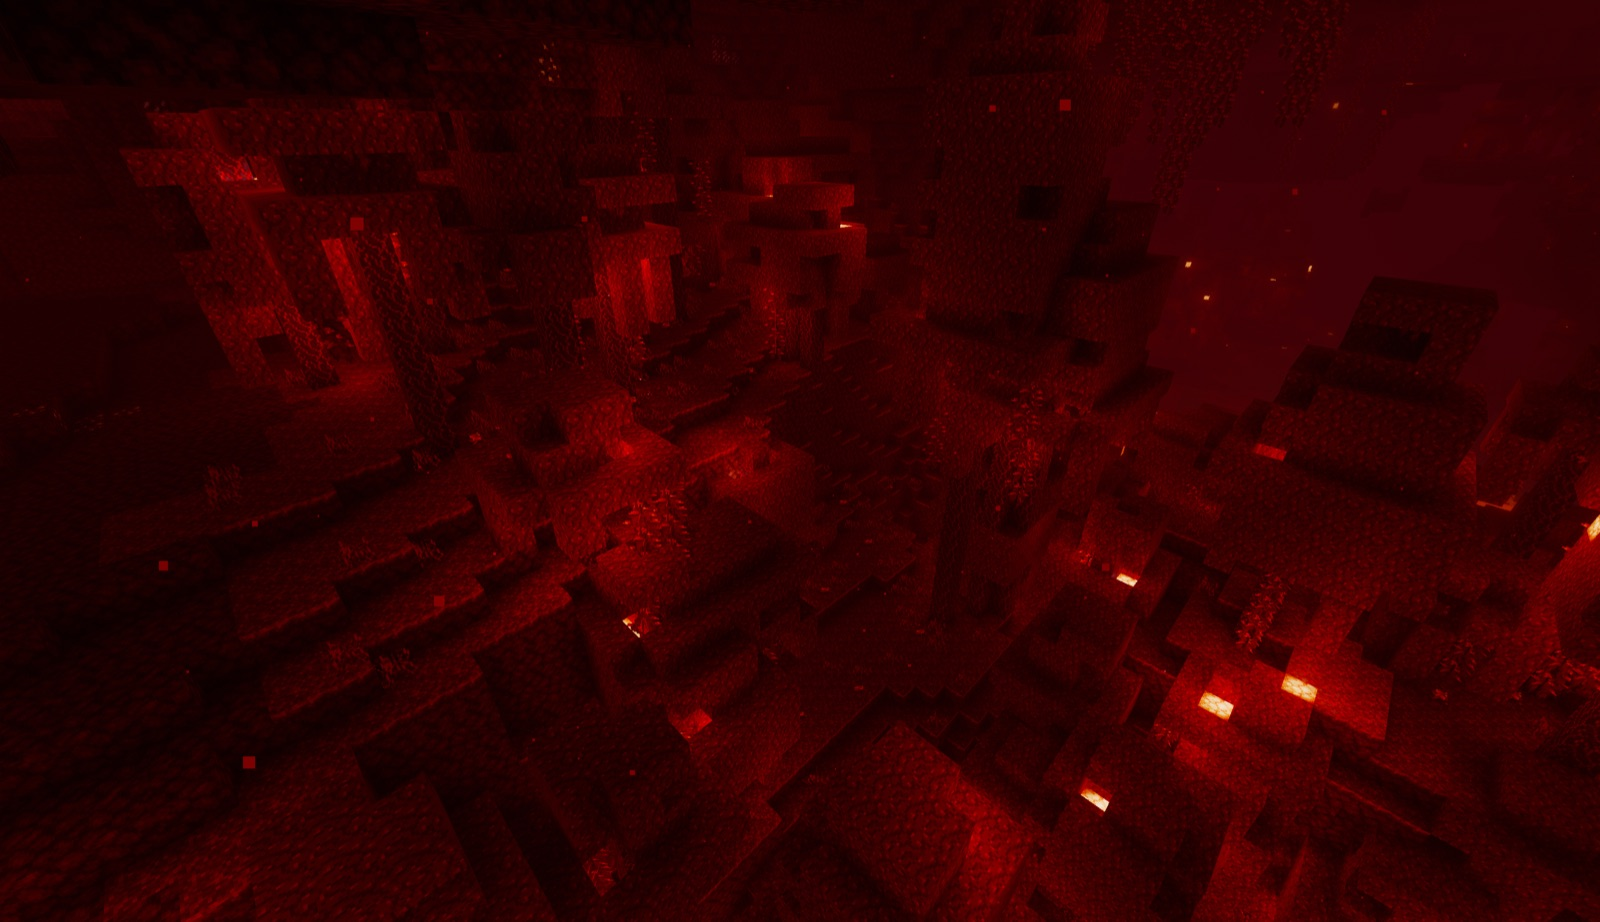
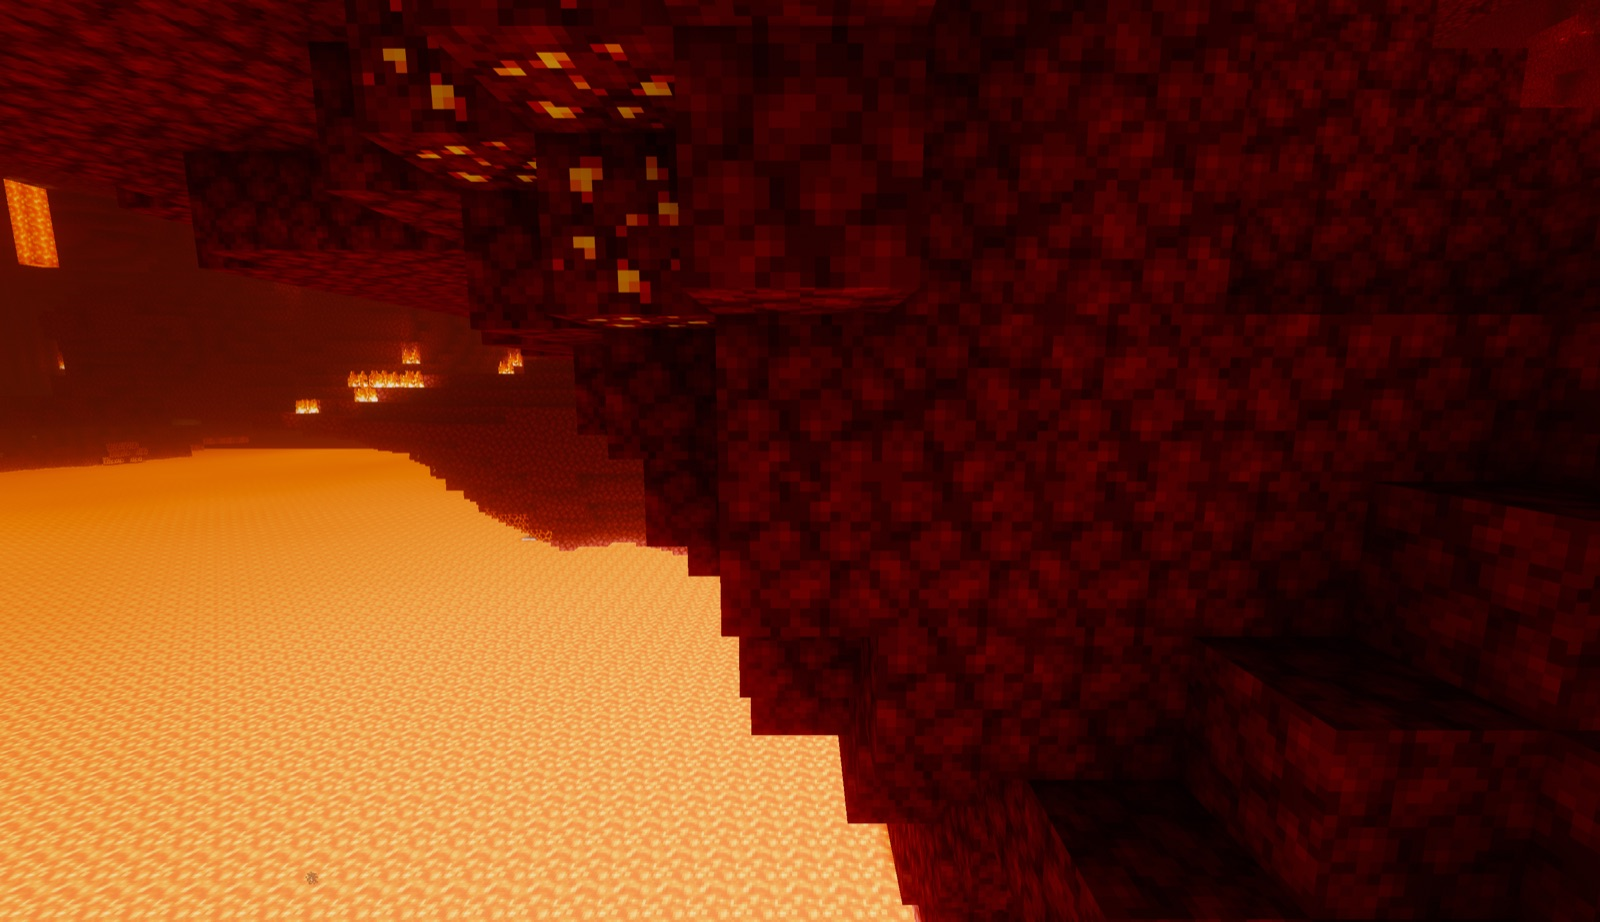
Showcase: the open-air lava sea Nether view

diff --git a/tools/qa/probe/src/main/java/celestiaqa/Shots.java b/tools/qa/probe/src/main/java/celestiaqa/Shots.java
@@ -50,7 +50,7 @@ final class Shots {
         new Scene("vista-night", 18000, "clear", "tp @a 40.5 210 40.5 135 -10"),
         new Scene("vista-rain", 6000, "rain", "tp @a 40.5 210 40.5 135 12"),
         new Scene("village-rain", 6000, "rain", "tp @a -330.5 65 256.5 90 4"), // (last Overworld: rain and wetness take long to clear)
-        new Scene("nether", 6000, "clear", Level.NETHER, "execute in minecraft:the_nether run tp @a 0.5 100 0.5 135 30"), // (open air above the nether wastes)
+        new Scene("nether", 6000, "clear", Level.NETHER, "execute in minecraft:the_nether run tp @a -45.5 42 20.5 90 8"), // (open air over the lava sea, checked with execute if block)
         new Scene("end", 6000, "clear", Level.END, "execute in minecraft:the_end run tp @a 0.5 76 -48.5 0 8"));
 
     private Shots() {}

diff --git a/CHANGELOG.md b/CHANGELOG.md
@@ -3,7 +3,7 @@
 ## Unreleased
 
 - README: a showcase of in-game captures (`docs/images/`) and in-game benchmarks at native resolution (Quality and Performance,
-  M1 Pro) replace the synthetic-only table. QA: the `nether` scene now starts in open air above the wastes; it used to start inside the terrain. New `beach-sunset`, `pond-corner-sunset` and `village-sunset-back` scenes.
+  M1 Pro) replace the synthetic-only table. QA: the `nether` scene now starts in open air over the lava sea; it used to start inside the terrain. New `beach-sunset`, `pond-corner-sunset` and `village-sunset-back` scenes.
 
 - **No more glowing grass edges at sunset.** Celestia lit the grass block's side overlay as foliage, because it is a cutout
   quad like leaves. That meant light from behind and no self-shadowing, so when looking toward a low sun it drew bright yellow

diff --git a/README.md b/README.md
@@ -88,7 +88,7 @@ Measured with the in-game QA harness: 300 frames per scene under a slow camera p
 | Waterfront, sunset | 42.1 FPS | 67.4 FPS |
 | Beach (mostly water) | 35.5 FPS | — |
 | Village, rain | 51.5 FPS | 69.5 FPS |
-| Nether | 137.8 FPS | — |
+| Nether (lava sea) | 153.0 FPS | — |
 | The End | 168.6 FPS | — |
 
 Land views clear 60 FPS at native resolution on Quality. Water is the main cost, and Performance clears 60 FPS everywhere

diff --git a/docs/SHADER_PORT_PLAN.md b/docs/SHADER_PORT_PLAN.md
@@ -37,7 +37,7 @@ Read `AGENTS.md` first, then this block, then `docs/QA.md`.
   | village-shore-sunset | 42.1 | 27.0 ms |
   | beach | 35.5 | 30.0 ms |
   | village-rain | 51.5 | 22.5 ms |
-  | nether | 137.8 | 13.1 ms |
+  | nether (lava sea) | 153.0 | 7.1 ms |
   | end | 168.6 | 6.8 ms |
 
   Land views clear 60 FPS. Water fills `beach` and `village-shore`, and that is where frames are lost: the water pass costs
